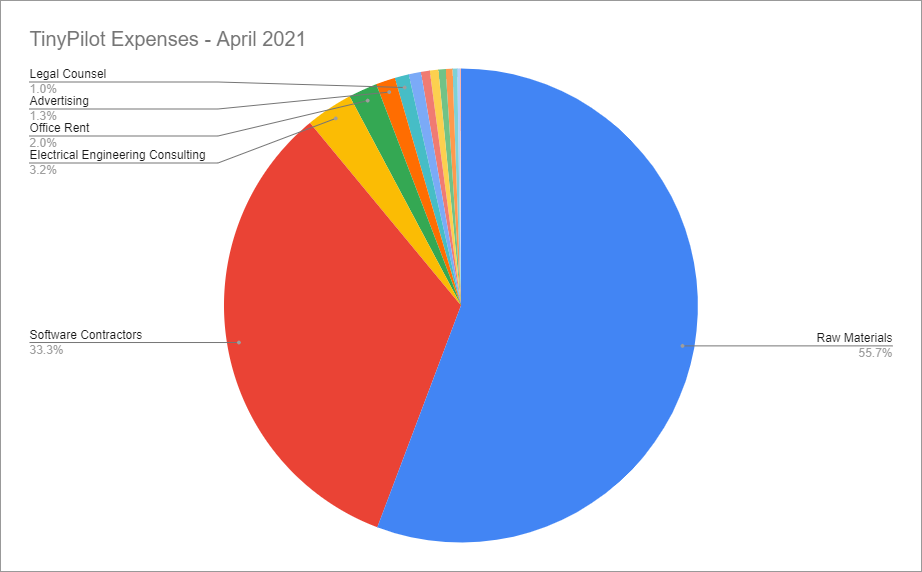
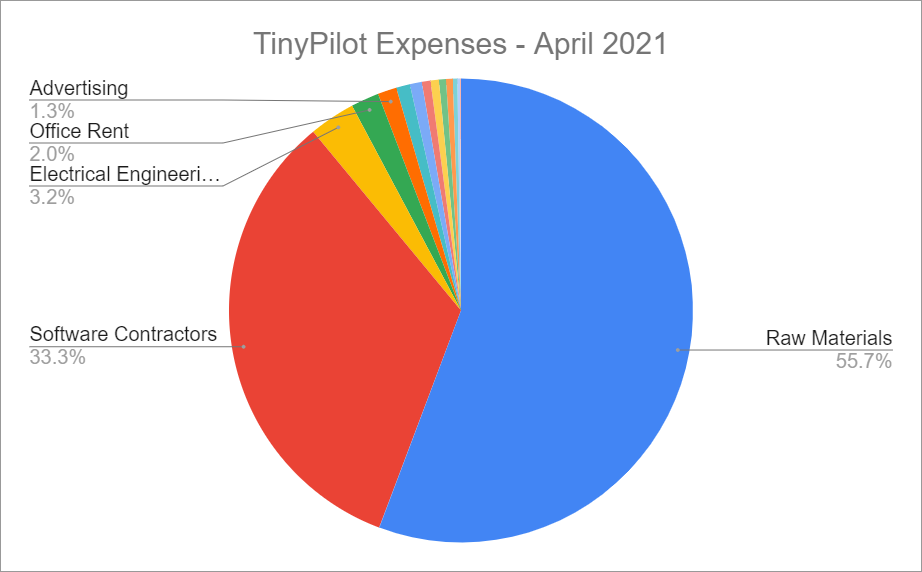
Update pie chart

diff --git a/content/retrospectives/2021/06/index.md b/content/retrospectives/2021/06/index.md
@@ -6,7 +6,7 @@ description: TODO - One-line summary
 
 ## Highlights
 
-*
+* I need to increase TinyPilot's profits.
 
 ## Goal Grades
 
@@ -28,8 +28,8 @@ We finally moved TinyPilot operations out of my house and into a real office. Th
 
 ### Gather feedback on the table of contents for [*Refactoring English*](https://refactoringenglish.com) and iterate on it
 
-* **Result**: XX
-* **Grade**: A
+* **Result**: I gathered feedback, but I'm not yet sure how to integrate it
+* **Grade**: B
 
 I got feedback from the [Write Useful Books community](https://writeusefulbooks.com) and from my mailing list. Responses were a bit lower than I hoped (6 responses from 202 subscribers), but it provided useful feedback.
 
@@ -39,11 +39,17 @@ I got feedback from the [Write Useful Books community](https://writeusefulbooks.
 
 ## How is $30k/month not profitable?
 
+I was talking to my girlfriend recently and said that I feel like I'm probably doing a lot of things wrong because I'm not in touch with people who run businesses like mine. She asked who I'd want to reach out to, and I realized I can just do that. So I emailed Mike Perham, the founder of Sidekiq.
+
+Mike's [interview on Indie Hackers](https://www.indiehackers.com/podcast/016-mike-perham-of-sidekiq) is one of my favorites. Because he making $80k/month writing an open source software package. Customers run their software on their own machines, so nothing that can happen that requires immediate attention, like a service outage if you're hosting a service.
+
+>Get those profits up. A 5% profit margin is not a healthy business to be in. Either get your costs down, massage your prices a bit or find a software-only addon that can be closer to pure profit.
+
 My average revenue is about $30k per month, but I'm barely breaking even.
 
 I haven't done all my bookkeeping for May yet, so let's look at April.
 
-{{<img src="pie-chart.png" maxWidth="800px" alt="Pie chart of TinyPilot expenses" caption="TinyPilot expenses by category" hasLink="false">}}
+{{<img src="pie-chart.png" maxWidth="700px" alt="Pie chart of TinyPilot expenses" caption="TinyPilot expenses by category" hasLink="false">}}
 
 |                 Category          | Total        |
 |-----------------------------------|--------------|
@@ -59,6 +65,20 @@ I haven't done all my bookkeeping for May yet, so let's look at April.
 | Cloud Services                    |   $137.33    |
 | Local Contractors                 |   $129.12    |
 | Misc                              |    $161.21   |
+
+Raw materials isn't so surprising. My margin on products is generally around XX%, so that looks about right.
+
+Software is the big one that stands out. It accounts for a third of my expenses.
+
+>Why don't you just write the software yourself?
+
+I can't really do that at this point. There's too much to manage, so I don't get enough uninterrupted streaks of development time.
+
+>Why don't you just hire cheaper developers?
+
+The developer's I work with are really good. I've worked with developers who aren't as good, and the issue is that they require a lot of management or they drive down the quality of the code, and if they do that for too long, it becomes unmaintainable garbage. The developers I work with now are
+
+So I don't see any opportunity to reduce costs.
 
 ## I'm just a manager
 
